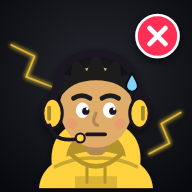
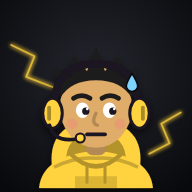
Add files via upload

diff --git a/avatar.js b/avatar.js
@@ -84,7 +84,16 @@ export function avatarSVG(raw, size = 48, extra = '') {
   const up = hd === 'up';
   const kc = hood, kcD = darken(kc, 0.65); // headset = same colour as the hoodie
   let s = '';
-  // hair behind the head (hidden inside the hood when it's up)
+  // hood UP shapes: the outer hood (sits a bit loose, falls onto the shoulders) and the face opening
+  const HOOD_OUT = 'M15 84 Q13 52 21 31 Q31 10 50 10 Q69 10 79 31 Q87 52 85 84 Z';
+  const HOOD_OPEN = 'M29 80 Q25 62 26.5 46 Q28 21 50 21 Q72 21 73.5 46 Q75 62 71 80 Z';
+  // hood up: the dark inside of the hood, then the hair behind the head shows inside the opening only
+  if (up) {
+    s += `<defs><clipPath id="av-hood-clip"><path d="${HOOD_OPEN}"/></clipPath></defs><path d="${HOOD_OPEN}" fill="${hoodD}"/>`;
+    const inside = { long: `<path d="M25 44 Q22 80 30 88 L70 88 Q78 80 75 44 Z" fill="${hair}"/>`, bob: `<path d="M24 40 Q21 68 29 72 L71 72 Q79 68 76 40 Z" fill="${hair}"/>`, 'wolf cut': `<path d="M23 42 L22 66 L77 66 L77 42 Z" fill="${hair}"/>`, braids: `<path d="M24 42 L24 62 L76 62 L76 42 Z" fill="${hair}"/>`, locs: `<path d="M24 42 L24 70 L76 70 L76 42 Z" fill="${hair}"/>` }[hairS];
+    if (inside) s += `<g clip-path="url(#av-hood-clip)">${inside}</g>`;
+  }
+  // hair behind the head (hood down / no hood)
   if (!up) {
     if (hairS === 'long') s += `<path d="M25 44 Q22 80 30 88 L70 88 Q78 80 75 44 Z" fill="${hair}"/>`;
     if (hairS === 'ponytail') s += `<ellipse cx="77" cy="50" rx="7" ry="15" fill="${hair}" transform="rotate(18 77 50)"/>`;
@@ -101,7 +110,6 @@ export function avatarSVG(raw, size = 48, extra = '') {
   }
   // hood DOWN: lying behind the neck · hood UP: the back of the hood behind the head
   if (hd === 'down') s += `<path d="M21 88 Q16 57 50 54 Q84 57 79 88 Z" fill="${hood}"/><path d="M30 84 Q29 64 50 62 Q71 64 70 84 Z" fill="${hoodD}"/>`;
-  if (up) s += `<ellipse cx="50" cy="45" rx="30" ry="32" fill="${hoodD}"/>`; // the dark inside of the hood, behind the head
   // body: hoodie (or a plain sweater without a hood)
   s += `<path d="M12 100 Q14 78 50 75 Q86 78 88 100 Z" fill="${hood}"/>`;
   if (hd === 'down') s += `<path d="M22 86 Q36 79 50 80 Q64 79 78 86" fill="none" stroke="${hoodD}" stroke-width="2.4" opacity=".7"/>`; // hood seam
@@ -222,10 +230,19 @@ export function avatarSVG(raw, size = 48, extra = '') {
   const mouthPart = acc === 'hacker mask' ? '' : mouthSvg;
   // hood UP: the hood frames the face and covers the hair (only a fringe peeks out)
   // the rim is a ring around the face: hugs the head like a real hoodie, with a seam on top and a soft shadow inside
-  const hoodFront = up ? `<path fill-rule="evenodd" d="M20 45 A30 32 0 1 1 80 45 A30 32 0 1 1 20 45 Z M26.5 48 A23.5 26 0 1 0 73.5 48 A23.5 26 0 1 0 26.5 48 Z" fill="${hood}"/>`
-    + `<ellipse cx="50" cy="48" rx="23.5" ry="26" fill="none" stroke="${hoodD}" stroke-width="2.2"/><path d="M50 13.5 V22" stroke="${hoodD}" stroke-width="1.8" stroke-linecap="round" opacity=".8"/>`
-    + `<path d="M24 30 Q30 18 42 15" fill="none" stroke="#fff" stroke-width="2" stroke-linecap="round" opacity=".18"/>` : '';
-  const hairTop = hideHair ? '' : up ? `<defs><clipPath id="av-hood-clip"><ellipse cx="50" cy="48" rx="23.5" ry="26"/></clipPath></defs><g clip-path="url(#av-hood-clip)">${top}</g>` : top;
-  s += hairTop + hoodFront + faceSvg + fh + brow + eyeSvg + mouthPart + accSvg + headset;
+  const hoodFront = up ? `<path fill-rule="evenodd" d="${HOOD_OUT} ${HOOD_OPEN}" fill="${hood}"/>`
+    + `<path d="M29 80 Q25 62 26.5 46 Q28 21 50 21 Q72 21 73.5 46 Q75 62 71 80" fill="none" stroke="${hoodD}" stroke-width="2.4" stroke-linecap="round"/>`
+    + `<path d="M50 10.5 V20" stroke="${hoodD}" stroke-width="1.8" stroke-linecap="round" opacity=".8"/>`
+    + `<path d="M19 60 Q18 72 20 82 M81 60 Q82 72 80 82" fill="none" stroke="${hoodD}" stroke-width="1.6" stroke-linecap="round" opacity=".55"/>`
+    + `<path d="M22 32 Q29 17 42 13.5" fill="none" stroke="#fff" stroke-width="2" stroke-linecap="round" opacity=".18"/>` : '';
+  // hood UP: long hair falls OUT of the hood, over the hoodie
+  const fall = !up ? '' : {
+    long: [1, -1].map((d) => { const x = (v) => 50 - d * (50 - v); return `<path d="M${x(27)} 48 Q${x(23)} 70 ${x(26)} 93 L${x(31)} 89 L${x(34)} 93 Q${x(32)} 72 ${x(33.5)} 58 Z" fill="${hair}"/>`; }).join(''),
+    braids: [31, 69].map((x) => [62, 69, 76, 83].map((y, i) => `<ellipse cx="${x + (x < 50 ? -1 : 1) * (i % 2)}" cy="${y}" rx="${4.4 - i * 0.25}" ry="4.2" fill="${hair}" stroke="rgba(255,255,255,.28)" stroke-width="1.1"/>`).join('') + `<path d="M${x - 3} 87.5 h6" stroke="#ff4d4d" stroke-width="2.4" stroke-linecap="round"/>`).join(''),
+    locs: [[28, 50, 26, 88], [32, 58, 31, 92], [72, 50, 74, 88], [68, 58, 69, 92]].map(([x1, y1, x2, y2]) => `<path d="M${x1} ${y1} Q${(x1 + x2) / 2 + (x1 < 50 ? -2 : 2)} ${(y1 + y2) / 2} ${x2} ${y2}" stroke="${hair}" stroke-width="5" stroke-linecap="round" fill="none"/>`).join(''),
+    'wolf cut': `<path d="M27 48 L25 72 L29 67 L31 76 L34 68 L33 56 Z M73 48 L75 72 L71 67 L69 76 L66 68 L67 56 Z" fill="${hair}"/>`,
+  }[hairS] || '';
+  const hairTop = hideHair ? '' : up ? `<g clip-path="url(#av-hood-clip)">${top}</g>` : top;
+  s += hairTop + hoodFront + fall + faceSvg + fh + brow + eyeSvg + mouthPart + accSvg + headset;
   return `<svg class="av ${extra}" style="--av:${kc}" width="${size}" height="${size}" viewBox="0 -8 100 108" aria-hidden="true">${s}</svg>`;
 }

diff --git a/index.html b/index.html
@@ -16,7 +16,7 @@
   <link rel="preconnect" href="https://fonts.googleapis.com">
   <link rel="preconnect" href="https://fonts.gstatic.com" crossorigin>
   <link href="https://fonts.googleapis.com/css2?family=Chakra+Petch:wght@500;600;700&family=Rajdhani:wght@500;600;700&family=JetBrains+Mono:wght@500;700;800&display=swap" rel="stylesheet">
-  <link rel="stylesheet" href="style.css?v=18">
+  <link rel="stylesheet" href="style.css?v=19">
 </head>
 <body>
   <!-- Loading screen: shows instantly while fonts, code and the network load -->
@@ -56,9 +56,9 @@
   <!-- QR code maker (the QR reader loads only when someone first scans) -->
   <script defer src="https://cdn.jsdelivr.net/npm/qrcode-generator@1.4.4/qrcode.js"></script>
   <!-- download every code file at the same time instead of one after another -->
-  <link rel="modulepreload" href="net.js?v=18"><link rel="modulepreload" href="engine.js?v=18"><link rel="modulepreload" href="games.js?v=18">
-  <link rel="modulepreload" href="config.js?v=18"><link rel="modulepreload" href="icons.js?v=18"><link rel="modulepreload" href="avatar.js?v=18">
-  <link rel="modulepreload" href="profile.js?v=18"><link rel="modulepreload" href="music.js?v=18"><link rel="modulepreload" href="firebase-config.js?v=18">
-  <script type="module" src="main.js?v=18"></script>
+  <link rel="modulepreload" href="net.js?v=19"><link rel="modulepreload" href="engine.js?v=19"><link rel="modulepreload" href="games.js?v=19">
+  <link rel="modulepreload" href="config.js?v=19"><link rel="modulepreload" href="icons.js?v=19"><link rel="modulepreload" href="avatar.js?v=19">
+  <link rel="modulepreload" href="profile.js?v=19"><link rel="modulepreload" href="music.js?v=19"><link rel="modulepreload" href="firebase-config.js?v=19">
+  <script type="module" src="main.js?v=19"></script>
 </body>
 </html>

diff --git a/main.js b/main.js
@@ -1,13 +1,13 @@
 // SCREENS — what each player sees. Every phone runs this file. The host's phone also runs the engine.
 
-import { connect, ONLINE } from './net.js?v=18';
-import { createEngine } from './engine.js?v=18';
-import { SOLO, DUEL, seeded, WIN_LINES, FAIL_LINES } from './games.js?v=18';
-import { ROLE_INFO, SETTINGS_UI, MODIFIERS, HOW, GAMER_ROLES, HACKER_ROLES, NPC_ROLES, PLACES } from './config.js?v=18';
-import { icon } from './icons.js?v=18';
-import { avatarSVG, randomAvatar, cleanAvatar, AV_PARTS, unlockLevel, lockedFix, randomUnlocked } from './avatar.js?v=18';
-import { loadProfile, createProfile, saveProfile, levelOf, levelProgress, recordGame, LEVELS } from './profile.js?v=18';
-import { unlockAudio, setTrack, sfx, prefs, savePrefs } from './music.js?v=18';
+import { connect, ONLINE } from './net.js?v=19';
+import { createEngine } from './engine.js?v=19';
+import { SOLO, DUEL, seeded, WIN_LINES, FAIL_LINES } from './games.js?v=19';
+import { ROLE_INFO, SETTINGS_UI, MODIFIERS, HOW, GAMER_ROLES, HACKER_ROLES, NPC_ROLES, PLACES } from './config.js?v=19';
+import { icon } from './icons.js?v=19';
+import { avatarSVG, randomAvatar, cleanAvatar, AV_PARTS, unlockLevel, lockedFix, randomUnlocked } from './avatar.js?v=19';
+import { loadProfile, createProfile, saveProfile, levelOf, levelProgress, recordGame, LEVELS } from './profile.js?v=19';
+import { unlockAudio, setTrack, sfx, prefs, savePrefs } from './music.js?v=19';
 
 const $ = (s, r = document) => r.querySelector(s);
 const $$ = (s, r = document) => [...r.querySelectorAll(s)];

diff --git a/engine.js b/engine.js
@@ -7,8 +7,8 @@
 // shields and Healer revives all work by scanning badges.
 
 import { SOLO_IDS, SENSOR_IDS, SOCIAL_IDS, EMERGENCY_IDS, DUEL_IDS, DUEL_BETTER, DEFAULT_SETTINGS, ZONES, SPOT_TWISTS, DARES,
-  GAMER_ROLES, HACKER_ROLES, NPC_ROLES, MODIFIERS, ROLE_INFO } from './config.js?v=18';
-import { cleanAvatar, COLOR_NAMES, HAIR_COLOR_NAMES, partName } from './avatar.js?v=18';
+  GAMER_ROLES, HACKER_ROLES, NPC_ROLES, MODIFIERS, ROLE_INFO } from './config.js?v=19';
+import { cleanAvatar, COLOR_NAMES, HAIR_COLOR_NAMES, partName } from './avatar.js?v=19';
 
 const pick = (a) => a[Math.floor(Math.random() * a.length)];
 const shuffle = (a) => { a = [...a]; for (let i = a.length - 1; i > 0; i--) { const j = Math.floor(Math.random() * (i + 1)); [a[i], a[j]] = [a[j], a[i]]; } return a; };

diff --git a/net.js b/net.js
@@ -3,7 +3,7 @@
 //  - Local test mode: browser tabs on one device talk through a BroadcastChannel.
 //  - Online mode (when firebase-config.js is filled in): phones talk through Firebase Realtime Database.
 
-import { firebaseConfig } from './firebase-config.js?v=18';
+import { firebaseConfig } from './firebase-config.js?v=19';
 
 export const ONLINE = !!(firebaseConfig && firebaseConfig.apiKey && firebaseConfig.databaseURL);
 

diff --git a/games.js b/games.js
@@ -4,7 +4,7 @@
 // Duel game: run(root, rand, done) -> cleanup. rand() is shared so both players get the SAME challenge.
 //            Call done(score).
 
-import { avatarSVG, randomAvatar } from './avatar.js?v=18';
+import { avatarSVG, randomAvatar } from './avatar.js?v=19';
 
 export function seeded(seed) {
   let a = seed >>> 0;
